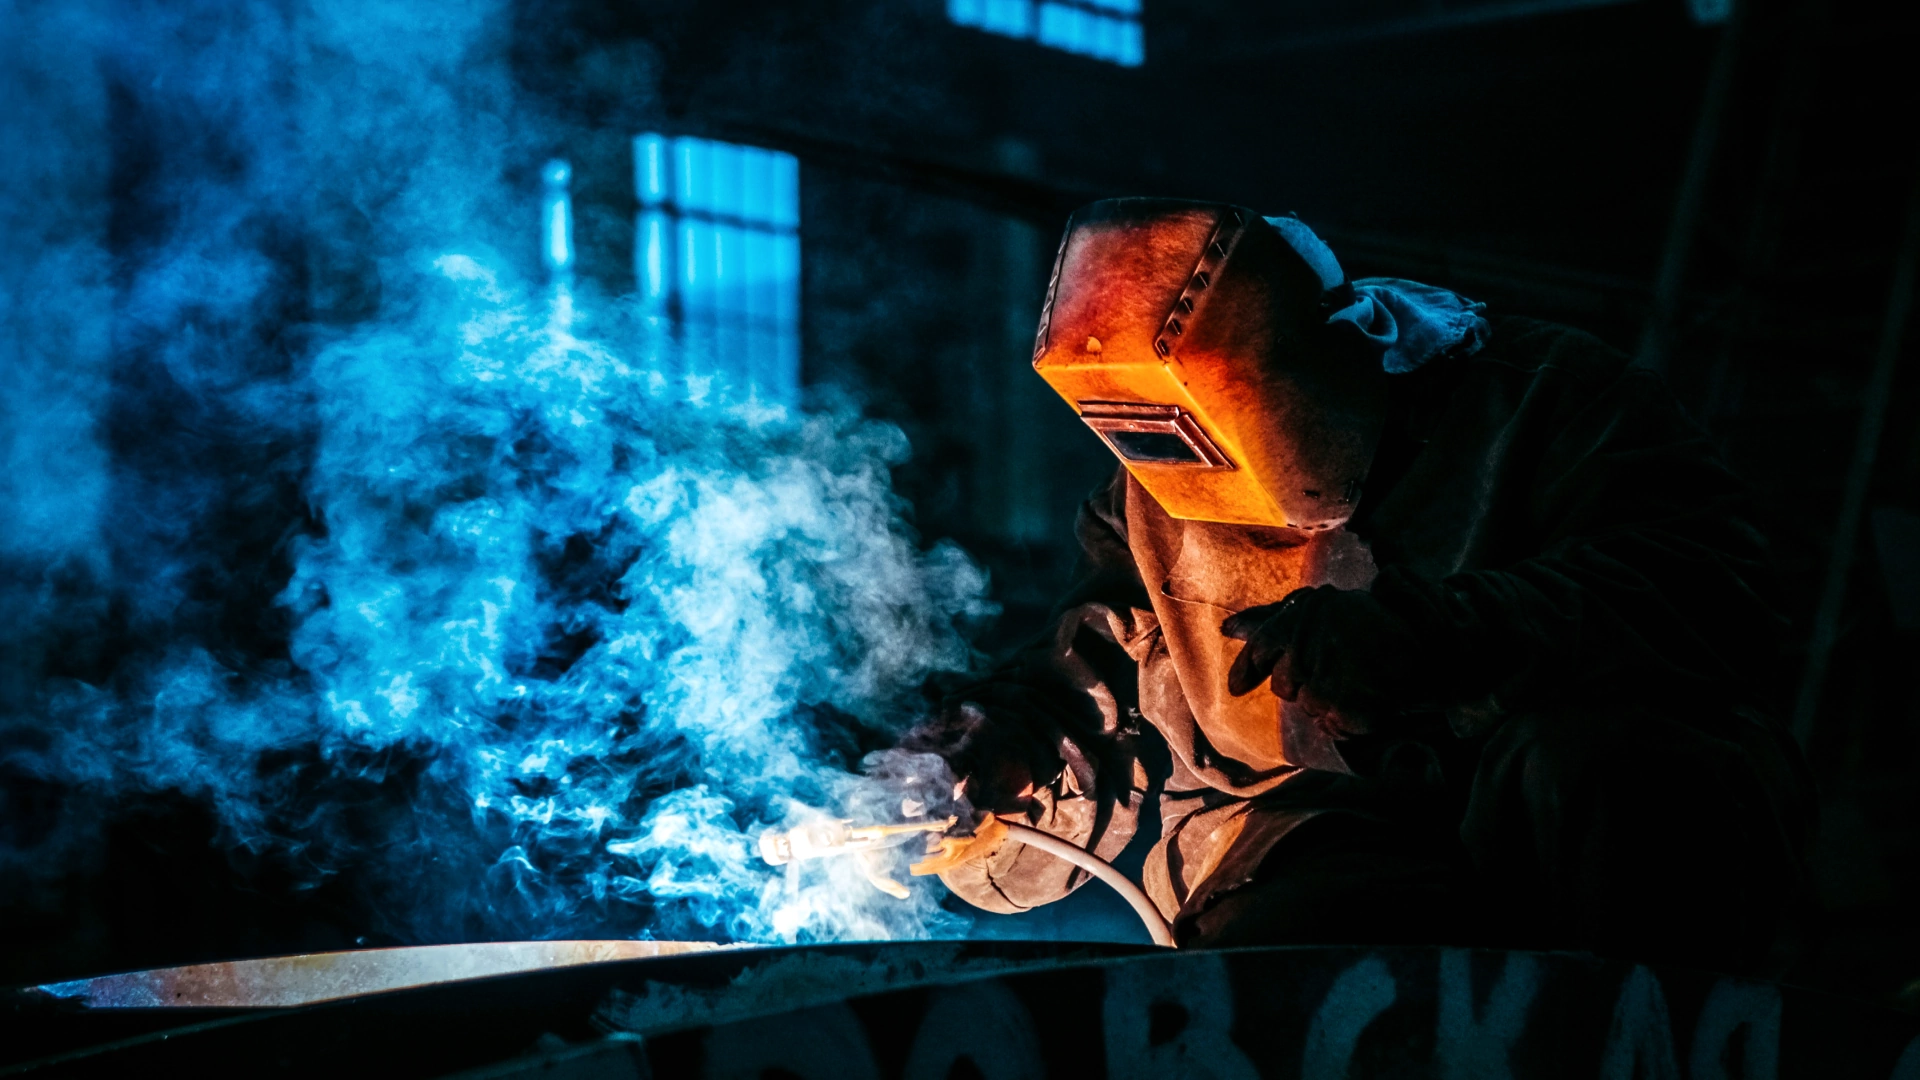
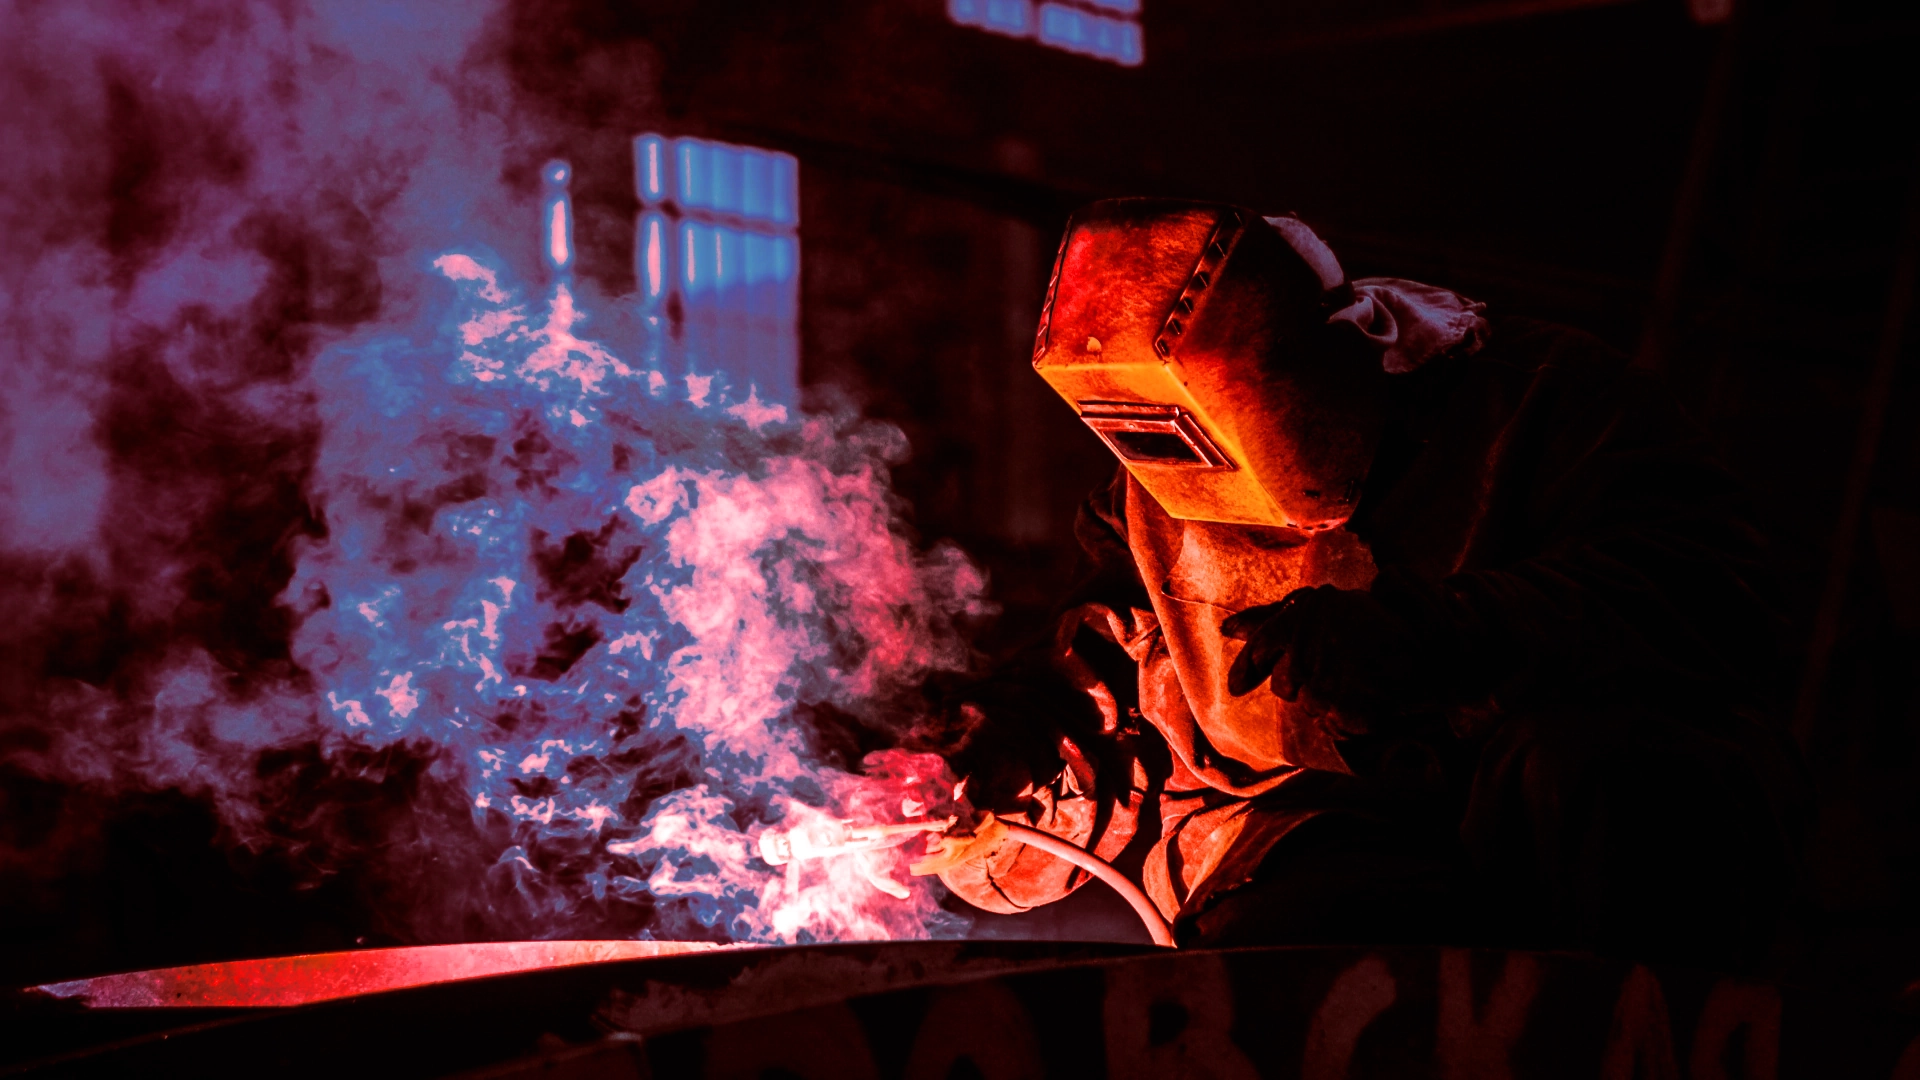
Colors

diff --git a/gr4/add/css/zst.css b/gr4/add/css/zst.css
@@ -6,19 +6,19 @@ kolor ciemny niebieski - 10,60,132 0A3C84
 kolor ciemny-odcien niebieski - 18,96,206 1260ce
 kolor jasny-stary niebieski - 3,169,244 03A9F4
 */--tlo: #871812;
-  --menu_tlo: rgba(0,0,0,.4);
-  --background_tlo: rgba(0,0,0,1);
+  --menu_tlo: rgba(49, 2, 2, 0.4);
+  --background_tlo: rgb(51, 5, 5);
   --gradient: linear-gradient(180deg, rgba(0,0,0,1) 0%, rgba(18,18,18,1) 60%, rgba(12,12,12,1) 100%);
   --text_shadow: -1px -1px 1px rgba(172,172,171, .1), 1px 1px 1px rgba(236,236,236, .8);
-  --box-shadow: -1rem 0 2rem #c3c3c3;
+  --box-shadow: -1rem 0 2rem #000;
   --text_tlo: #000;
   --text_strona: #FFF;
-  --text_strona_a: #a1a1a1;
+  --text_strona_a: #FFF;
   --text_strona_h: linear-gradient(90deg, rgba(232,232,232,1) 0%, rgba(208,208,208,1) 47%, rgba(149,149,149,1) 100%);
   --color_cien: #c3c3c3;
   --color_header: linear-gradient(90deg, rgba(78, 73, 76,1) 0%, rgba(214, 212, 206,1) 47%, rgba(78, 73, 76,1) 100%);
   --color_header_hover: linear-gradient(90deg, rgba(214, 212, 206,1) 0%, rgba(78, 73, 76,1) 47%, rgba(214, 212, 206,1) 100%);
-  --color_belka_tlo : linear-gradient(#000000, #1c1c1c, #000000);
+  --color_belka_tlo : linear-gradient(#000000, #4e0808, #000000);
   --card_icon: #111;
   --card_icon_art: #333;
   --primary: #0A3C84;
@@ -186,7 +186,7 @@ header .tytul_nag .into {
   height: 100vh;
   width: 100vw;
   float: left;
-  background-image: url(../../img/slider/czarno_biale/programista.webp);
+  background-image: url(../../img/slider/programista.webp);
   background-repeat: no-repeat;
   background-size: cover;
 /*   filter: grayscale(0%); */
@@ -195,7 +195,7 @@ header .tytul_nag .into {
   height: 100vh;
   width: 100vw;
   float: left;
-  background-image: url(../../img/slider/czarno_biale/informatyk2.webp);
+  background-image: url(../../img/slider/informatyk2.webp);
   background-repeat: no-repeat;
   background-size: cover;
 /*   filter: grayscale(0%); */
@@ -204,7 +204,7 @@ header .tytul_nag .into {
   height: 100vh;
   width: 100vw;
   float: left;
-  background-image: url(../../img/slider/czarno_biale/spawacz.webp);
+  background-image: url(../../img/slider/spawacz.webp);
   background-repeat: no-repeat;
   background-size: cover;
 /*   filter: grayscale(100%); */
@@ -213,7 +213,7 @@ header .tytul_nag .into {
   height: 100vh;
   width: 100vw;
   float: left;
-  background-image: url(../../img/slider/czarno_biale/int_dom.webp);
+  background-image: url(../../img/slider/int_dom.webp);
   background-repeat: no-repeat;
   background-size: cover;
 /*   filter: grayscale(100%); */
@@ -222,7 +222,7 @@ header .tytul_nag .into {
   height: 100vh;
   width: 100vw;
   float: left;
-  background-image: url(../../img/slider/czarno_biale/mechanik2.webp);
+  background-image: url(../../img/slider/mechanik2.webp);
   background-repeat: no-repeat;
   background-size: cover;
 /*   filter: grayscale(100%); */
@@ -231,7 +231,7 @@ header .tytul_nag .into {
   height: 100vh;
   width: 100vw;
   float: left;
-  background-image: url(../../img/slider/czarno_biale/cnc.webp);
+  background-image: url(../../img/slider/cnc.webp);
   background-repeat: no-repeat;
   background-size: cover;
 /*   filter: grayscale(100%); */
@@ -240,7 +240,7 @@ header .tytul_nag .into {
   height: 100vh;
   width: 100vw;
   float: left;
-  background-image: url(../../img/slider/czarno_biale/elektryk.webp);
+  background-image: url(../../img/slider/elektryk.webp);
   background-repeat: no-repeat;
   background-size: cover;
 /*   filter: grayscale(100%); */
@@ -249,7 +249,7 @@ header .tytul_nag .into {
   height: 100vh;
   width: 100vw;
   float: left;
-  background-image: url(../../img/slider/czarno_biale/elektro_mechanik.webp);
+  background-image: url(../../img/slider/elektro_mechanik.webp);
   background-repeat: no-repeat;
   background-size: cover;
 /*   filter: grayscale(100%); */
@@ -258,7 +258,7 @@ header .tytul_nag .into {
   height: 100vh;
   width: 100vw;
   float: left;
-  background-image: url(../../img/slider/czarno_biale/mechanik.webp);
+  background-image: url(../../img/slider/mechanik.webp);
   background-repeat: no-repeat;
   background-size: cover;
 /*   filter: grayscale(100%); */
